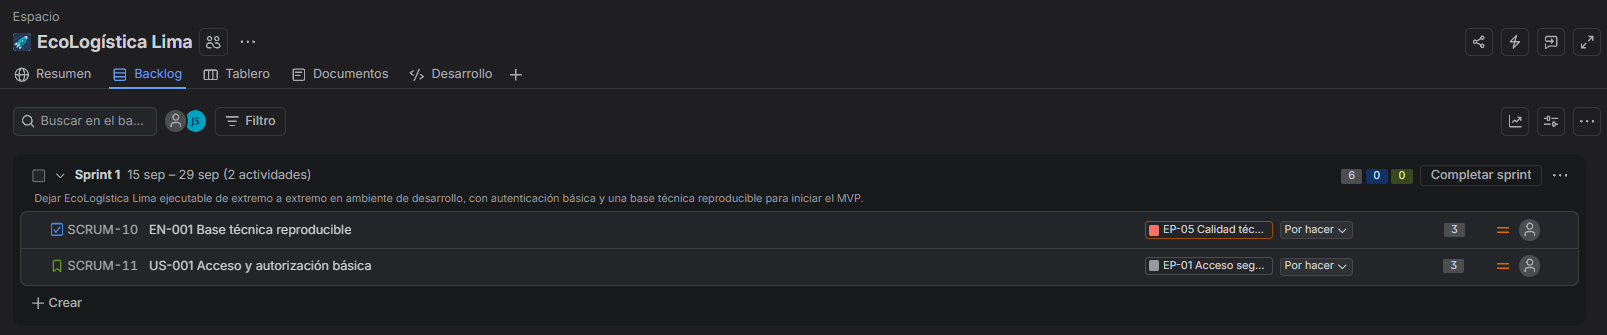
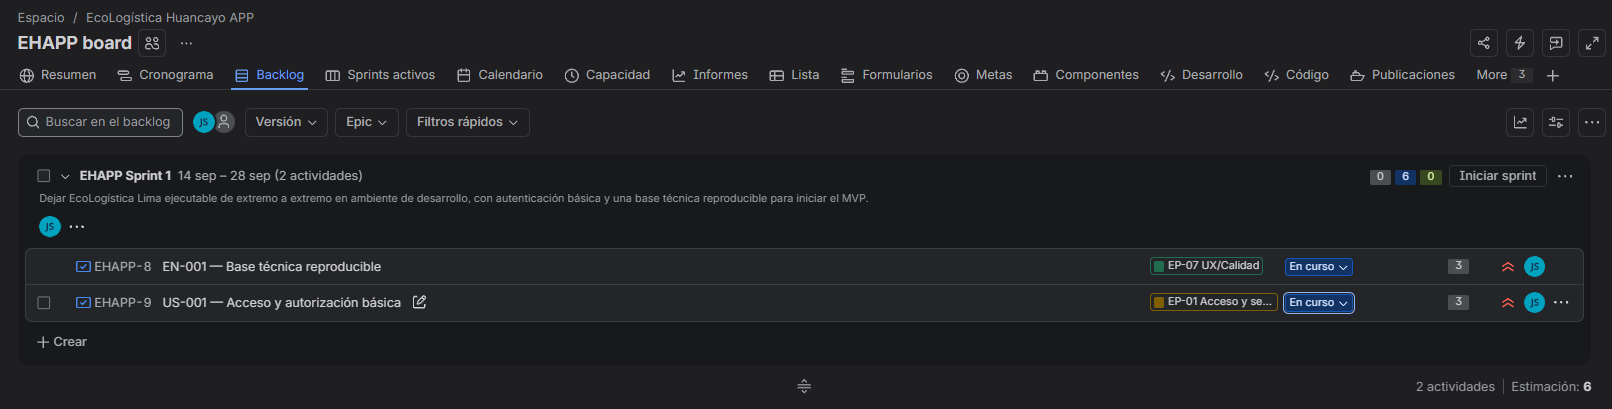
correcion de imagenes

diff --git a/docs/02 Planificación/02 Artefactos Jira V_1_0_0.md b/docs/02 Planificación/02 Artefactos Jira V_1_0_0.md
@@ -298,15 +298,53 @@ gantt
 
 > **Resumen de la tabla:** separa lo que la consigna pide expresamente de gráficos que ayudan a demostrar Scrum, evitando presentar extras como requisitos obligatorios.
 
-## 10. Capturas obligatorias
+## 10. Evidencias visuales de Jira
 
-1. Roadmap del Proyecto.
-2. Backlog priorizado con Story Points y componentes.
-3. Sprint Planning & Sprint Goal del Sprint 1.
-4. Tablero Scrum con To Do, In Progress, In Review / QA y Done.
-5. Releases con `v1.0.0-MVP` y issues asociados.
+Las siguientes imágenes corresponden a las cinco evidencias solicitadas para demostrar la configuración y uso de Jira Software. Las capturas se encuentran en la carpeta `docs/02 Planificación/evidencias/` y se insertan mediante rutas relativas para que se visualicen directamente en GitHub.
 
-**Regla:** usar únicamente capturas reales, recortadas al panel de Jira. No colocar escritorio, barra de tareas, pestañas u otro contenido ajeno.
+> **Importante:** las capturas deben mantenerse recortadas únicamente al panel de Jira que se desea demostrar, sin escritorio, barra de tareas, pestañas del navegador ni espacios sobrantes.
+
+### Evidencia 1 — Roadmap del proyecto
+
+![Evidencia 1 - Roadmap del proyecto](evidencias/evidencia-01-roadmap.png)
+
+> **Descripción de la imagen:** La captura muestra el Roadmap o Timeline del proyecto en Jira, donde se observa la distribución temporal de las épicas y su relación con la planificación general del proyecto. Esta evidencia permite comprobar que los grandes bloques funcionales fueron organizados en una línea de tiempo coherente con los Sprints definidos.
+
+### Evidencia 2 — Backlog priorizado
+
+![Evidencia 2 - Backlog priorizado](evidencias/evidencia-02-backlog.png)
+
+> **Descripción de la imagen:** La captura presenta el Product Backlog priorizado en Jira. Se utiliza para evidenciar que las Historias de Usuario y tareas técnicas se encuentran ordenadas, estimadas con Story Points y preparadas para ser asignadas a los diferentes Sprints según su valor, dependencia y prioridad.
+
+### Evidencia 3 — Sprint Planning y Sprint Goal del Sprint 1
+
+![Evidencia 3 - Sprint 1](evidencias/evidencia-03-sprint1.png)
+
+> **Descripción de la imagen:** La captura muestra la planificación del Sprint 1, incluyendo los elementos seleccionados para el Sprint y su objetivo o Sprint Goal. Esta evidencia permite verificar qué trabajo fue comprometido para iniciar el desarrollo de la base técnica del proyecto y cuál es el resultado esperado al finalizar el Sprint.
+
+### Evidencia 4 — Tablero Scrum activo
+
+![Evidencia 4 - Tablero Scrum](evidencias/evidencia-04-tablero.png)
+
+> **Descripción de la imagen:** La captura muestra el tablero Scrum utilizado para controlar el avance del Sprint. Las tarjetas se distribuyen entre las columnas `To Do`, `In Progress`, `In Review / QA` y `Done`, permitiendo visualizar el estado real del trabajo y detectar actividades pendientes, en desarrollo, en validación o terminadas.
+
+### Evidencia 5 — Release del MVP
+
+![Evidencia 5 - Release](evidencias/evidencia-05-release.png)
+
+> **Descripción de la imagen:** La captura evidencia la gestión de la versión o Release del proyecto en Jira. Debe permitir identificar la versión `v1.0.0-MVP` y los issues asociados a ella, demostrando que las funcionalidades planificadas se agrupan dentro de una versión formal del producto.
+
+### Resumen de evidencias
+
+| N.° | Archivo | Evidencia | Qué demuestra |
+|---:|---|---|---|
+| 1 | `evidencia-01-roadmap.png` | Roadmap | Organización temporal de las épicas. |
+| 2 | `evidencia-02-backlog.png` | Backlog | Priorización, estimación y preparación de los issues. |
+| 3 | `evidencia-03-sprint1.png` | Sprint Planning | Alcance y objetivo del Sprint 1. |
+| 4 | `evidencia-04-tablero.png` | Scrum Board | Seguimiento del flujo de trabajo durante el Sprint. |
+| 5 | `evidencia-05-release.png` | Release | Asociación de issues con la versión `v1.0.0-MVP`. |
+
+> **Resumen de la tabla:** concentra las cinco evidencias visuales exigidas para el documento y facilita verificar rápidamente qué archivo corresponde a cada aspecto de la configuración de Jira.
 
 ## 11. Product Increment, Review y Retrospective
 
